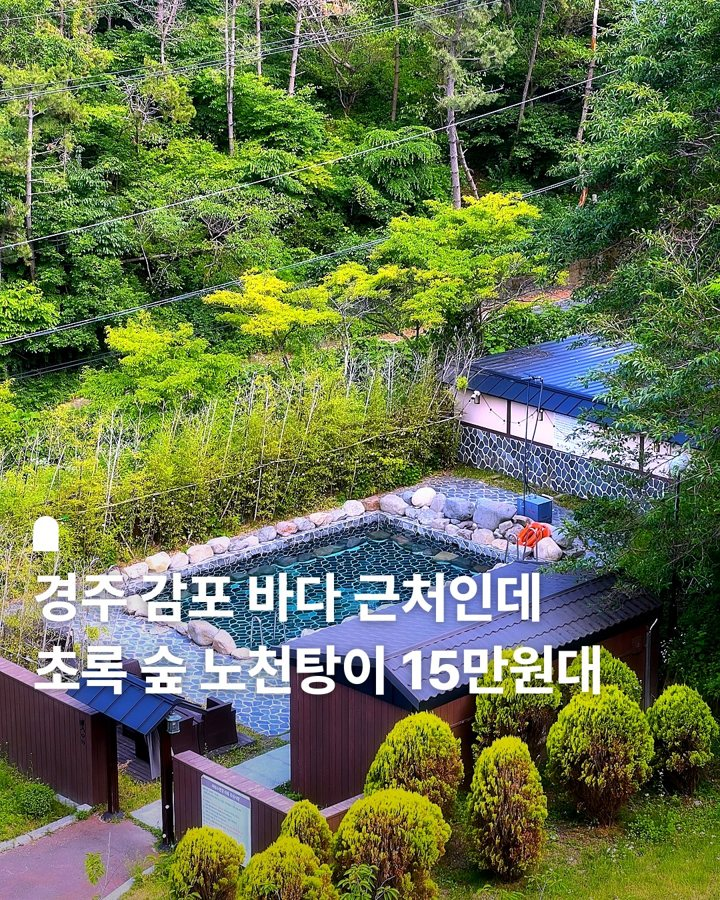
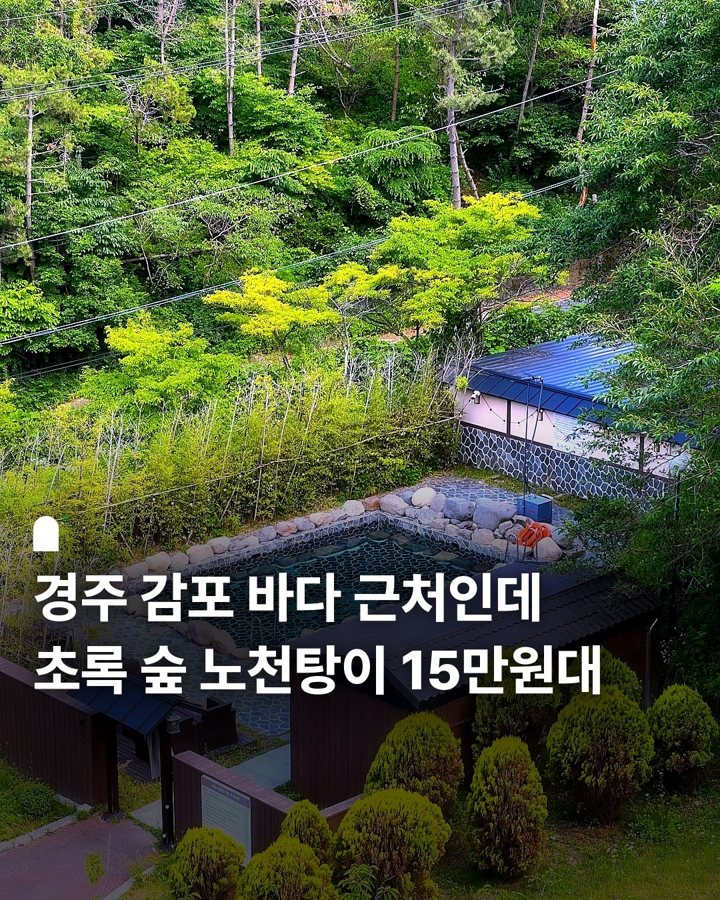
stay 1: 토모노야 호텔&료칸 경주

diff --git a/docs/index.html b/docs/index.html
@@ -90,11 +90,11 @@ html.shs-lock,html.shs-lock body{overflow:hidden}
 .empty{text-align:center;color:var(--sub);padding:50px 0;font-size:14px}
 .gal{display:flex;overflow-x:auto;scroll-snap-type:x mandatory;scrollbar-width:none}.gal::-webkit-scrollbar{display:none}
 .gal img{flex:none;width:100%;aspect-ratio:4/5;object-fit:cover;scroll-snap-align:start}
-.arr{position:absolute;top:50%;transform:translateY(-50%);width:38px;height:38px;border:0;border-radius:50%;
- background:rgba(255,255,255,.35);color:#fff;font-size:22px;font-weight:700;line-height:38px;text-align:center;
- cursor:pointer;text-shadow:0 1px 3px rgba(0,0,0,.45);backdrop-filter:blur(2px);padding:0}
-.arr:hover{background:rgba(255,255,255,.55)}
-.arr.prev{left:10px}.arr.next{right:10px}.arr[disabled]{opacity:0;pointer-events:none}
+.arr{position:absolute;top:50%;transform:translateY(-50%);width:44px;height:64px;border:0;background:none;
+ padding:0;cursor:pointer;color:rgba(255,255,255,.82);font-size:44px;font-weight:300;line-height:60px;text-align:center;
+ text-shadow:0 1px 3px rgba(0,0,0,.55),0 0 12px rgba(0,0,0,.35)}
+.arr:hover{color:#fff}
+.arr.prev{left:2px}.arr.next{right:2px}.arr[disabled]{opacity:0;pointer-events:none}
 .galwrap{position:relative}.pg{position:absolute;right:12px;bottom:12px;background:rgba(0,0,0,.55);color:#fff;
  font-size:12px;font-weight:700;border-radius:999px;padding:4px 9px}
 .back{display:inline-block;margin:14px 16px 0;font-size:14px;color:var(--sub);text-decoration:none}
@@ -104,7 +104,7 @@ html.shs-lock,html.shs-lock body{overflow:hidden}
 .mini .logo{width:15px;height:21px;margin:0}
 .detail{padding:4px 16px 24px}
 footer{padding:6px 18px 34px;font-size:11.5px;color:var(--sub);line-height:1.6;text-align:center}
-</style></head><body><div class="tools"><div class="bar"><a class="brand" href="./" aria-label="숨은숙소 메인"><svg class="logo" viewBox="0 0 34 47" aria-hidden="true"><path d="M0 17A17 17 0 0 1 34 17V47H0Z" fill="#343a2c"/><circle cx="17" cy="26" r="2.2" fill="#fff"/></svg>숨은숙소</a><input id="q" class="search" type="search" placeholder="지역, 숙소, 키즈풀… 검색" autocomplete="off"></div><div class="sels"><select id="rg" class="sel" aria-label="지역"><option value="">지역 전체</option><option value="서울·경기">서울·경기</option><option value="강원">강원</option><option value="충청">충청</option><option value="경상">경상</option><option value="전라">전라</option><option value="제주">제주</option></select><select id="th" class="sel" aria-label="종류"><option value="">종류 전체</option><option value="풀빌라">풀빌라</option><option value="키즈">키즈</option><option value="온천·스파">온천·스파</option><option value="오션뷰">오션뷰</option><option value="독채">독채</option><option value="한옥">한옥</option><option value="료칸">료칸</option><option value="글램핑">글램핑</option><option value="애견동반">애견동반</option><option value="가성비">가성비</option></select></div></div><main><div class="count">전체 <b id="cnt">1곳</b> · 유명해지기 전에 가는 국내 숙소</div><div class="card" data-region="경상" data-tags="료칸,온천·스파" data-text="토모노야 호텔&amp;료칸 경주 경북 경주 감포 경상 료칸 온천·스파 국내 최초 정통 료칸 전 객실 히노끼 욕조 야외 온수풀·다다미 객실"><div class="galwrap"><div class="gal"><img src="img/1/01.jpg" alt="" loading="lazy"><img src="img/1/02.jpg" alt="" loading="lazy"><img src="img/1/03.jpg" alt="" loading="lazy"><img src="img/1/04.jpg" alt="" loading="lazy"><img src="img/1/05.jpg" alt="" loading="lazy"><img src="img/1/06.jpg" alt="" loading="lazy"><img src="img/1/07.jpg" alt="" loading="lazy"><img src="img/1/08.jpg" alt="" loading="lazy"><img src="img/1/09.jpg" alt="" loading="lazy"><img src="img/1/10.jpg" alt="" loading="lazy"><img src="img/1/11.jpg" alt="" loading="lazy"><img src="img/1/12.jpg" alt="" loading="lazy"><img src="img/1/13.jpg" alt="" loading="lazy"></div><button class="arr prev" aria-label="이전 사진">‹</button><button class="arr next" aria-label="다음 사진">›</button><div class="pg"></div></div><div class="chead"><div class="crow"><div class="name">토모노야 호텔&amp;료칸 경주</div><div class="price">1박 15만원대~</div></div><div class="region">경북 경주 감포</div></div><div class="cardfoot"><a class="btn book" href="https://link.coupang.com/a/ieQocHMJ3c" rel="sponsored nofollow noopener">쿠팡에서 예약하기</a><button class="share" aria-label="공유하기" data-url="https://sumeunstay.com/s/1.html" data-title="토모노야 호텔&amp;료칸 경주 — 숨은숙소" data-text="경북 경주 감포 · 국내 최초 정통 료칸 · 전 객실 히노끼 욕조" data-image="https://sumeunstay.com/img/1/cover.jpg"><svg viewBox="0 0 24 24" width="20" height="20" aria-hidden="true" fill="none" stroke="currentColor" stroke-width="2" stroke-linecap="round" stroke-linejoin="round"><path d="M12 3v12"/><path d="M7 8l5-5 5 5"/><path d="M5 13v6a2 2 0 0 0 2 2h10a2 2 0 0 0 2-2v-6"/></svg></button></div><div class="cmore"><div class="badges" style="margin-top:10px"><span class="no">01번</span><span class="tag">료칸</span><span class="tag">온천·스파</span></div><ul class="hl"><li>국내 최초 정통 료칸</li><li>전 객실 히노끼 욕조</li><li>야외 온수풀·다다미 객실</li></ul></div></div><div class="empty" id="emp" style="display:none">조건에 맞는 숙소가 아직 없어요.<br>곧 더 올라와요!</div></main><footer>이 페이지의 예약 링크는 제휴 링크로, 예약 시 숨은숙소가 일정액의 수수료를 받을 수 있습니다.<br>© 숨은숙소 · instagram @sumeun.stay</footer><div class="shs" id="shs" hidden><div class="shs-dim" data-shs-close></div>
+</style></head><body><div class="tools"><div class="bar"><a class="brand" href="./" aria-label="숨은숙소 메인"><svg class="logo" viewBox="0 0 34 47" aria-hidden="true"><path d="M0 17A17 17 0 0 1 34 17V47H0Z" fill="#343a2c"/><circle cx="17" cy="26" r="2.2" fill="#fff"/></svg>숨은숙소</a><input id="q" class="search" type="search" placeholder="지역, 숙소, 키즈풀… 검색" autocomplete="off"></div><div class="sels"><select id="rg" class="sel" aria-label="지역"><option value="">지역 전체</option><option value="서울·경기">서울·경기</option><option value="강원">강원</option><option value="충청">충청</option><option value="경상">경상</option><option value="전라">전라</option><option value="제주">제주</option></select><select id="th" class="sel" aria-label="종류"><option value="">종류 전체</option><option value="풀빌라">풀빌라</option><option value="키즈">키즈</option><option value="온천·스파">온천·스파</option><option value="오션뷰">오션뷰</option><option value="독채">독채</option><option value="한옥">한옥</option><option value="료칸">료칸</option><option value="글램핑">글램핑</option><option value="애견동반">애견동반</option><option value="가성비">가성비</option></select></div></div><main><div class="count">전체 <b id="cnt">1곳</b> · 유명해지기 전에 가는 국내 숙소</div><div class="card" data-region="경상" data-tags="료칸" data-text="토모노야 호텔&amp;료칸 경주 경북 경주 감포 경상 료칸 국내 최초 정통 료칸 전 객실 히노끼 욕조 야외 온수풀·다다미 객실"><div class="galwrap"><div class="gal"><img src="img/1/01.jpg" alt="" loading="lazy"><img src="img/1/02.jpg" alt="" loading="lazy"><img src="img/1/03.jpg" alt="" loading="lazy"><img src="img/1/04.jpg" alt="" loading="lazy"><img src="img/1/05.jpg" alt="" loading="lazy"><img src="img/1/06.jpg" alt="" loading="lazy"><img src="img/1/07.jpg" alt="" loading="lazy"><img src="img/1/08.jpg" alt="" loading="lazy"><img src="img/1/09.jpg" alt="" loading="lazy"><img src="img/1/10.jpg" alt="" loading="lazy"><img src="img/1/11.jpg" alt="" loading="lazy"><img src="img/1/12.jpg" alt="" loading="lazy"><img src="img/1/13.jpg" alt="" loading="lazy"></div><button class="arr prev" aria-label="이전 사진">‹</button><button class="arr next" aria-label="다음 사진">›</button><div class="pg"></div></div><div class="chead"><div class="crow"><div class="name">토모노야 호텔&amp;료칸 경주</div><div class="price">1박 15만원대~</div></div><div class="region">경북 경주 감포</div></div><div class="cardfoot"><a class="btn book" href="https://link.coupang.com/a/ieQ9OCNU72" rel="sponsored nofollow noopener">쿠팡에서 예약하기</a><button class="share" aria-label="공유하기" data-url="https://sumeunstay.com/s/1.html" data-title="토모노야 호텔&amp;료칸 경주 — 숨은숙소" data-text="경북 경주 감포 · 국내 최초 정통 료칸 · 전 객실 히노끼 욕조" data-image="https://sumeunstay.com/img/1/cover.jpg"><svg viewBox="0 0 24 24" width="20" height="20" aria-hidden="true" fill="none" stroke="currentColor" stroke-width="2" stroke-linecap="round" stroke-linejoin="round"><path d="M12 3v12"/><path d="M7 8l5-5 5 5"/><path d="M5 13v6a2 2 0 0 0 2 2h10a2 2 0 0 0 2-2v-6"/></svg></button></div><div class="cmore"><div class="badges" style="margin-top:10px"><span class="no">01번</span><span class="tag">료칸</span></div><ul class="hl"><li>국내 최초 정통 료칸</li><li>전 객실 히노끼 욕조</li><li>야외 온수풀·다다미 객실</li></ul></div></div><div class="empty" id="emp" style="display:none">조건에 맞는 숙소가 아직 없어요.<br>곧 더 올라와요!</div></main><footer>이 페이지의 예약 링크는 제휴 링크로, 예약 시 숨은숙소가 일정액의 수수료를 받을 수 있습니다.<br>© 숨은숙소 · instagram @sumeun.stay</footer><div class="shs" id="shs" hidden><div class="shs-dim" data-shs-close></div>
 <div class="shs-box" role="dialog" aria-modal="true" aria-labelledby="shs-h">
 <div class="shs-head"><b id="shs-h">공유하기</b><button type="button" class="shs-x" data-shs-close aria-label="닫기">✕</button></div>
 <p class="shs-title" id="shs-title"></p>

diff --git a/docs/s/1.html b/docs/s/1.html
@@ -90,11 +90,11 @@ html.shs-lock,html.shs-lock body{overflow:hidden}
 .empty{text-align:center;color:var(--sub);padding:50px 0;font-size:14px}
 .gal{display:flex;overflow-x:auto;scroll-snap-type:x mandatory;scrollbar-width:none}.gal::-webkit-scrollbar{display:none}
 .gal img{flex:none;width:100%;aspect-ratio:4/5;object-fit:cover;scroll-snap-align:start}
-.arr{position:absolute;top:50%;transform:translateY(-50%);width:38px;height:38px;border:0;border-radius:50%;
- background:rgba(255,255,255,.35);color:#fff;font-size:22px;font-weight:700;line-height:38px;text-align:center;
- cursor:pointer;text-shadow:0 1px 3px rgba(0,0,0,.45);backdrop-filter:blur(2px);padding:0}
-.arr:hover{background:rgba(255,255,255,.55)}
-.arr.prev{left:10px}.arr.next{right:10px}.arr[disabled]{opacity:0;pointer-events:none}
+.arr{position:absolute;top:50%;transform:translateY(-50%);width:44px;height:64px;border:0;background:none;
+ padding:0;cursor:pointer;color:rgba(255,255,255,.82);font-size:44px;font-weight:300;line-height:60px;text-align:center;
+ text-shadow:0 1px 3px rgba(0,0,0,.55),0 0 12px rgba(0,0,0,.35)}
+.arr:hover{color:#fff}
+.arr.prev{left:2px}.arr.next{right:2px}.arr[disabled]{opacity:0;pointer-events:none}
 .galwrap{position:relative}.pg{position:absolute;right:12px;bottom:12px;background:rgba(0,0,0,.55);color:#fff;
  font-size:12px;font-weight:700;border-radius:999px;padding:4px 9px}
 .back{display:inline-block;margin:14px 16px 0;font-size:14px;color:var(--sub);text-decoration:none}
@@ -104,7 +104,7 @@ html.shs-lock,html.shs-lock body{overflow:hidden}
 .mini .logo{width:15px;height:21px;margin:0}
 .detail{padding:4px 16px 24px}
 footer{padding:6px 18px 34px;font-size:11.5px;color:var(--sub);line-height:1.6;text-align:center}
-</style></head><body><div class="topbar"><a class="back" href="../">← 숙소 전체 보기</a><a class="mini" href="../" aria-label="숨은숙소 메인"><svg class="logo" viewBox="0 0 34 47" aria-hidden="true"><path d="M0 17A17 17 0 0 1 34 17V47H0Z" fill="#343a2c"/><circle cx="17" cy="26" r="2.2" fill="#fff"/></svg><b>숨은숙소</b></a></div><div style="margin-top:10px"><div class="galwrap"><div class="gal"><img src="../img/1/01.jpg" alt="" loading="eager"><img src="../img/1/02.jpg" alt="" loading="lazy"><img src="../img/1/03.jpg" alt="" loading="lazy"><img src="../img/1/04.jpg" alt="" loading="lazy"><img src="../img/1/05.jpg" alt="" loading="lazy"><img src="../img/1/06.jpg" alt="" loading="lazy"><img src="../img/1/07.jpg" alt="" loading="lazy"><img src="../img/1/08.jpg" alt="" loading="lazy"><img src="../img/1/09.jpg" alt="" loading="lazy"><img src="../img/1/10.jpg" alt="" loading="lazy"><img src="../img/1/11.jpg" alt="" loading="lazy"><img src="../img/1/12.jpg" alt="" loading="lazy"><img src="../img/1/13.jpg" alt="" loading="lazy"></div><button class="arr prev" aria-label="이전 사진">‹</button><button class="arr next" aria-label="다음 사진">›</button><div class="pg"></div></div></div><div class="detail" style="padding-top:16px"><div class="badges"><span class="no">01번</span><span class="tag">료칸</span><span class="tag">온천·스파</span></div><h1 class="name">토모노야 호텔&amp;료칸 경주</h1><div class="region">경북 경주 감포</div><ul class="hl"><li>국내 최초 정통 료칸</li><li>전 객실 히노끼 욕조</li><li>야외 온수풀·다다미 객실</li></ul><div class="price">1박 15만원대~</div><a class="btn" href="https://link.coupang.com/a/ieQocHMJ3c" rel="sponsored nofollow noopener">쿠팡에서 예약하기</a><button class="share wide" aria-label="공유하기" data-url="https://sumeunstay.com/s/1.html" data-title="토모노야 호텔&amp;료칸 경주 — 숨은숙소" data-text="경북 경주 감포 · 국내 최초 정통 료칸 · 전 객실 히노끼 욕조" data-image="https://sumeunstay.com/img/1/cover.jpg"><svg viewBox="0 0 24 24" width="20" height="20" aria-hidden="true" fill="none" stroke="currentColor" stroke-width="2" stroke-linecap="round" stroke-linejoin="round"><path d="M12 3v12"/><path d="M7 8l5-5 5 5"/><path d="M5 13v6a2 2 0 0 0 2 2h10a2 2 0 0 0 2-2v-6"/></svg>이 숙소 공유하기</button></div><footer>이 페이지의 예약 링크는 제휴 링크로, 예약 시 숨은숙소가 일정액의 수수료를 받을 수 있습니다.<br>© 숨은숙소 · instagram @sumeun.stay</footer><div class="shs" id="shs" hidden><div class="shs-dim" data-shs-close></div>
+</style></head><body><div class="topbar"><a class="back" href="../">← 숙소 전체 보기</a><a class="mini" href="../" aria-label="숨은숙소 메인"><svg class="logo" viewBox="0 0 34 47" aria-hidden="true"><path d="M0 17A17 17 0 0 1 34 17V47H0Z" fill="#343a2c"/><circle cx="17" cy="26" r="2.2" fill="#fff"/></svg><b>숨은숙소</b></a></div><div style="margin-top:10px"><div class="galwrap"><div class="gal"><img src="../img/1/01.jpg" alt="" loading="eager"><img src="../img/1/02.jpg" alt="" loading="lazy"><img src="../img/1/03.jpg" alt="" loading="lazy"><img src="../img/1/04.jpg" alt="" loading="lazy"><img src="../img/1/05.jpg" alt="" loading="lazy"><img src="../img/1/06.jpg" alt="" loading="lazy"><img src="../img/1/07.jpg" alt="" loading="lazy"><img src="../img/1/08.jpg" alt="" loading="lazy"><img src="../img/1/09.jpg" alt="" loading="lazy"><img src="../img/1/10.jpg" alt="" loading="lazy"><img src="../img/1/11.jpg" alt="" loading="lazy"><img src="../img/1/12.jpg" alt="" loading="lazy"><img src="../img/1/13.jpg" alt="" loading="lazy"></div><button class="arr prev" aria-label="이전 사진">‹</button><button class="arr next" aria-label="다음 사진">›</button><div class="pg"></div></div></div><div class="detail" style="padding-top:16px"><div class="badges"><span class="no">01번</span><span class="tag">료칸</span></div><h1 class="name">토모노야 호텔&amp;료칸 경주</h1><div class="region">경북 경주 감포</div><ul class="hl"><li>국내 최초 정통 료칸</li><li>전 객실 히노끼 욕조</li><li>야외 온수풀·다다미 객실</li></ul><div class="price">1박 15만원대~</div><a class="btn" href="https://link.coupang.com/a/ieQ9OCNU72" rel="sponsored nofollow noopener">쿠팡에서 예약하기</a><button class="share wide" aria-label="공유하기" data-url="https://sumeunstay.com/s/1.html" data-title="토모노야 호텔&amp;료칸 경주 — 숨은숙소" data-text="경북 경주 감포 · 국내 최초 정통 료칸 · 전 객실 히노끼 욕조" data-image="https://sumeunstay.com/img/1/cover.jpg"><svg viewBox="0 0 24 24" width="20" height="20" aria-hidden="true" fill="none" stroke="currentColor" stroke-width="2" stroke-linecap="round" stroke-linejoin="round"><path d="M12 3v12"/><path d="M7 8l5-5 5 5"/><path d="M5 13v6a2 2 0 0 0 2 2h10a2 2 0 0 0 2-2v-6"/></svg>이 숙소 공유하기</button></div><footer>이 페이지의 예약 링크는 제휴 링크로, 예약 시 숨은숙소가 일정액의 수수료를 받을 수 있습니다.<br>© 숨은숙소 · instagram @sumeun.stay</footer><div class="shs" id="shs" hidden><div class="shs-dim" data-shs-close></div>
 <div class="shs-box" role="dialog" aria-modal="true" aria-labelledby="shs-h">
 <div class="shs-head"><b id="shs-h">공유하기</b><button type="button" class="shs-x" data-shs-close aria-label="닫기">✕</button></div>
 <p class="shs-title" id="shs-title"></p>
